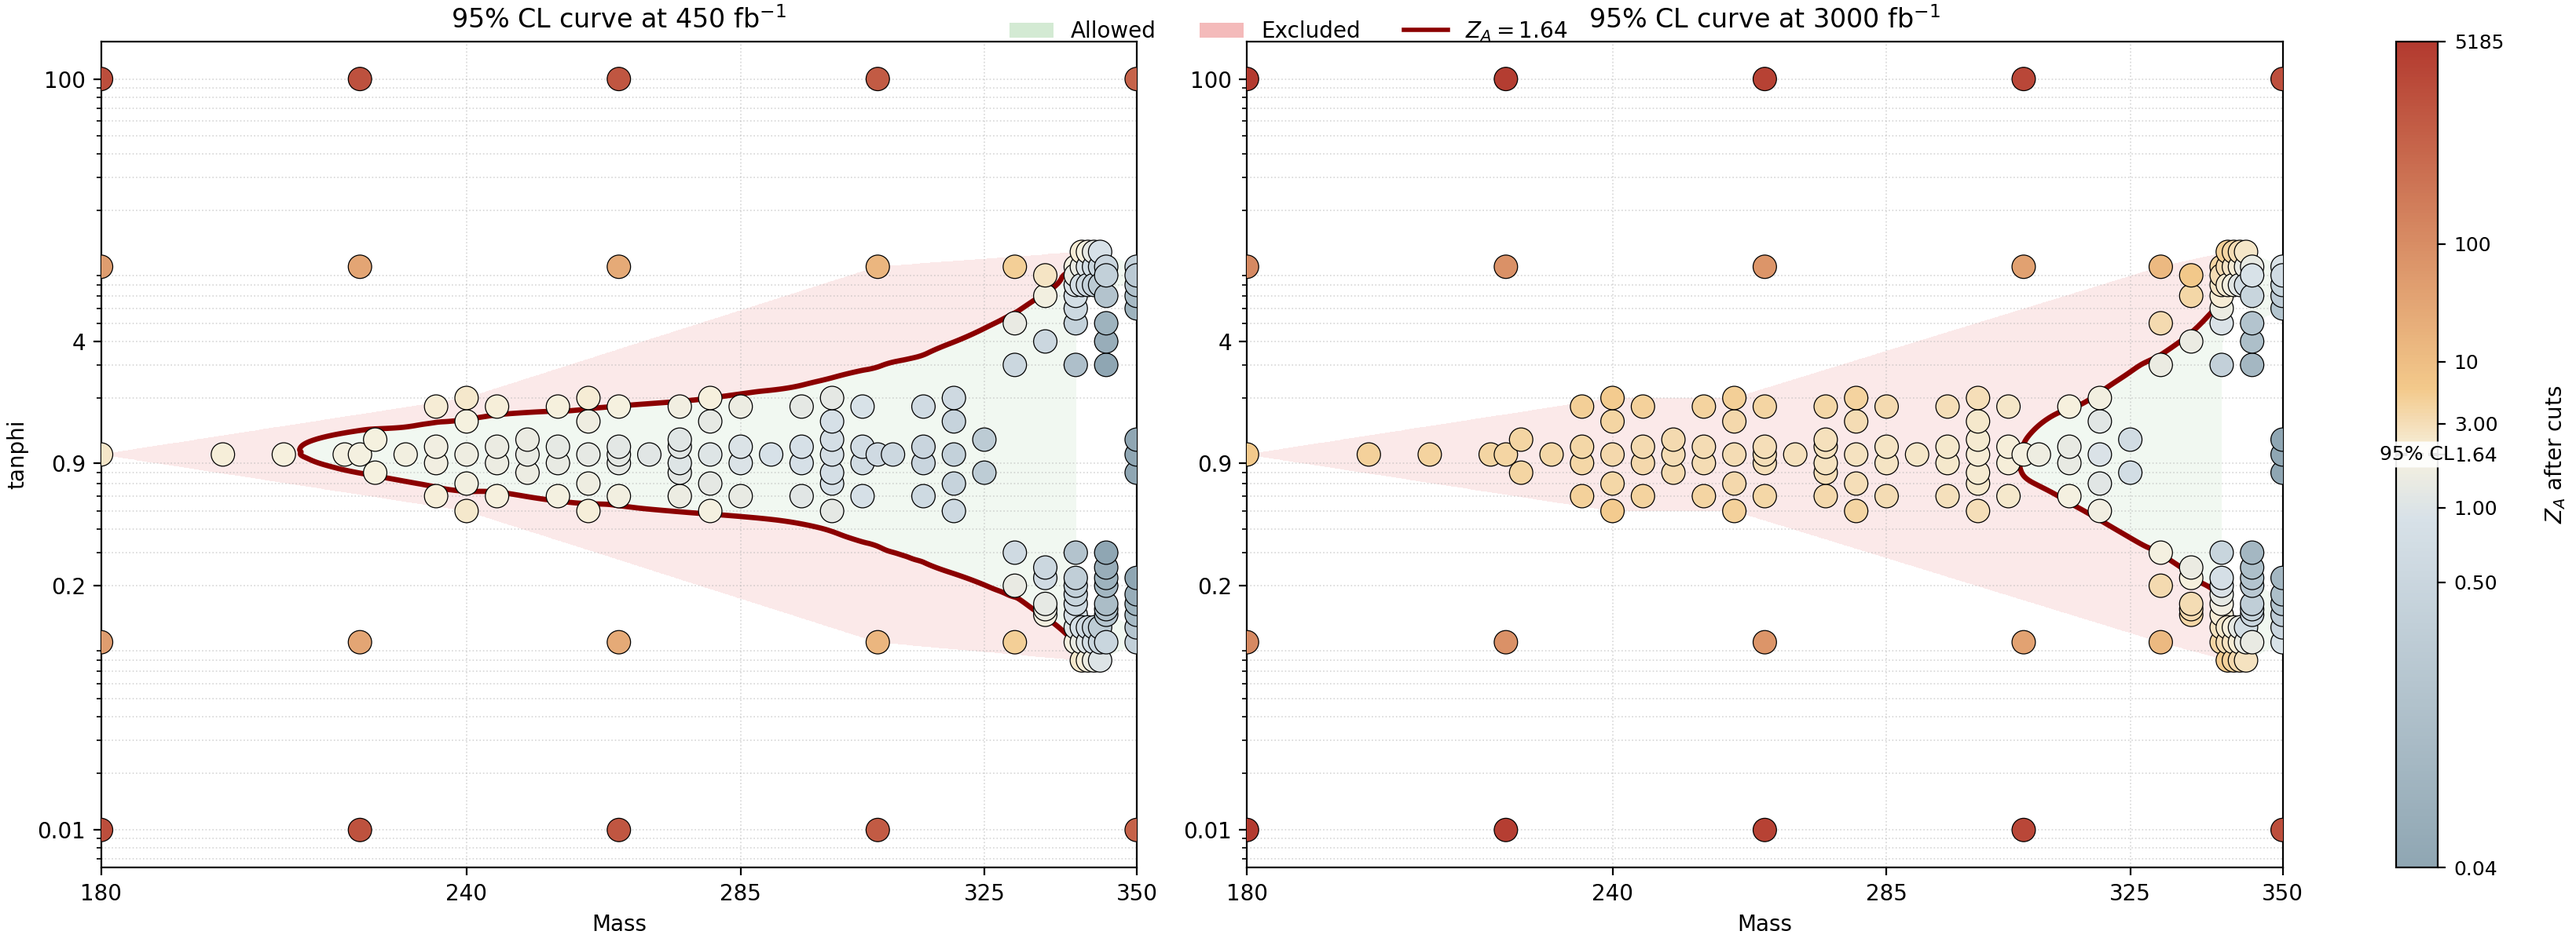
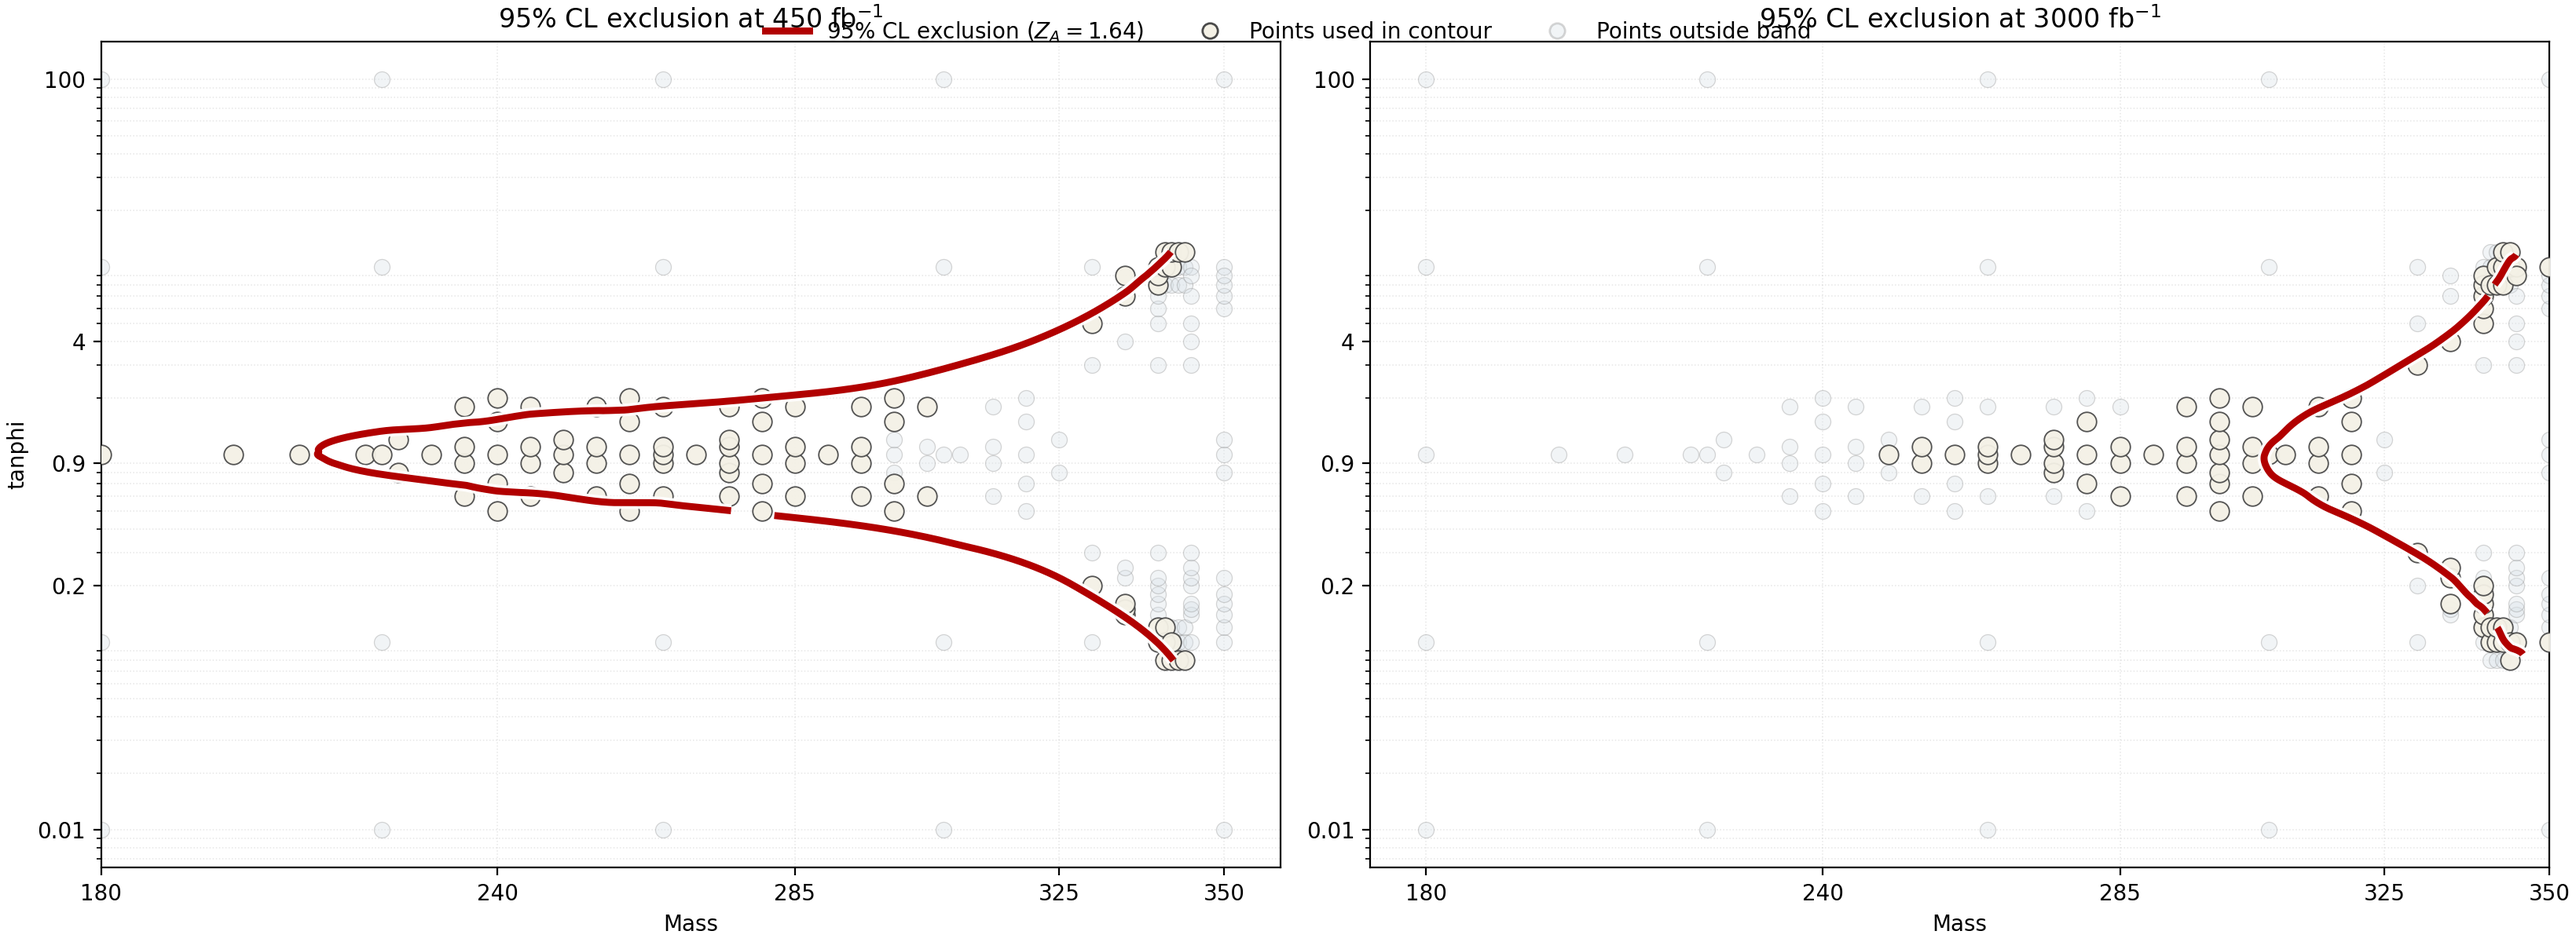
modify exclusion region plotter and added new batch of points to explore

diff --git a/exclusion/significance-plotter-region.py b/exclusion/significance-plotter-region.py
@@ -14,11 +14,9 @@ import matplotlib
 
 matplotlib.use("Agg")
 import matplotlib.pyplot as plt
+import matplotlib.patheffects as pe
 import matplotlib.tri as mtri
-from matplotlib.colors import LinearSegmentedColormap
-from matplotlib.colors import TwoSlopeNorm
 from matplotlib.lines import Line2D
-from matplotlib.patches import Patch
 
 
 BASE_DIR = Path(__file__).resolve().parent
@@ -26,19 +24,9 @@ DEFAULT_INPUT = BASE_DIR / "significance-summary.txt"
 DEFAULT_OUTPUT = BASE_DIR / "exclusion-region.png"
 DEFAULT_LUMINOSITIES_FB = (450.0, 3000.0)
 DEFAULT_EXCLUSION_THRESHOLD = 1.64
-DEFAULT_CURVE_BAND_FACTOR = 3.0
-DEFAULT_MAX_TRIANGLE_SPAN = 8.0
-DEFAULT_INTERPOLATION_POINTS = 320
-SCATTER_CMAP = LinearSegmentedColormap.from_list(
-    "significance_threshold_map",
-    [
-        (0.0, "#8fa6b3"),
-        (0.42, "#d7e1e8"),
-        (0.5, "#f6f1df"),
-        (0.58, "#f3c98b"),
-        (1.0, "#b33a2f"),
-    ],
-)
+DEFAULT_CURVE_BAND_FACTOR = 2.0
+DEFAULT_MAX_TRIANGLE_SPAN = 20.0
+DEFAULT_INTERPOLATION_POINTS = 1000
 
 
 def select_axis_ticks(values: np.ndarray, max_ticks: int = 5) -> list[float]:
@@ -94,7 +82,7 @@ def parse_args() -> argparse.Namespace:
         default=DEFAULT_CURVE_BAND_FACTOR,
         help=(
             "Use only points with significance between threshold/factor and "
-            "threshold*factor when building the 95%% CL curve. Default: 3.0"
+            "threshold*factor when building the 95%% CL curve. Default: 2.0"
         ),
     )
     parser.add_argument(
@@ -104,7 +92,7 @@ def parse_args() -> argparse.Namespace:
         help=(
             "Mask triangulation cells whose longest edge is too large after "
             "normalizing by the typical mass and log10(tanphi) spacing. "
-            "Default: 8.0"
+            "Default: 20.0"
         ),
     )
     parser.add_argument(
@@ -113,7 +101,7 @@ def parse_args() -> argparse.Namespace:
         default=DEFAULT_INTERPOLATION_POINTS,
         help=(
             "Number of points per axis in the interpolated grid used to draw the "
-            "95%% CL contour. Default: 320"
+            "95%% CL contour. Default: 1000"
         ),
     )
     return parser.parse_args()
@@ -215,37 +203,6 @@ def build_filtered_triangulation(
     return triangulation
 
 
-def build_scatter_norm(
-    rows_by_luminosity: list[tuple[float, list[tuple[float, float, float]]]],
-    threshold: float,
-) -> tuple[float, float, TwoSlopeNorm]:
-    all_significances = np.concatenate(
-        [
-            np.array([row[2] for row in rows], dtype=float)
-            for _, rows in rows_by_luminosity
-        ]
-    )
-    positive_significances = all_significances[all_significances > 0.0]
-    if positive_significances.size == 0:
-        raise ValueError("All significances are zero; logarithmic color scale is undefined.")
-
-    shared_vmin = float(np.min(positive_significances))
-    shared_vmax = float(np.max(all_significances))
-    if not (shared_vmin < threshold < shared_vmax):
-        raise ValueError(
-            "The exclusion threshold must lie inside the positive significance range "
-            "to center the scatter color scale."
-        )
-
-    log_significances = np.log10(positive_significances)
-    norm = TwoSlopeNorm(
-        vmin=float(np.min(log_significances)),
-        vcenter=math.log10(threshold),
-        vmax=math.log10(shared_vmax),
-    )
-    return shared_vmin, shared_vmax, norm
-
-
 def select_curve_band_points(
     masses: np.ndarray,
     tanphis: np.ndarray,
@@ -253,12 +210,7 @@ def select_curve_band_points(
     threshold: float,
     curve_band_factor: float,
 ) -> tuple[np.ndarray, np.ndarray, np.ndarray]:
-    if curve_band_factor <= 1.0:
-        raise ValueError("--curve-band-factor must be greater than 1.")
-
-    lower_bound = threshold / curve_band_factor
-    upper_bound = threshold * curve_band_factor
-    band_mask = (significances >= lower_bound) & (significances <= upper_bound)
+    band_mask = build_curve_band_mask(significances, threshold, curve_band_factor)
     if np.count_nonzero(band_mask) < 4:
         raise ValueError(
             "Not enough points remain in the curve band. "
@@ -266,6 +218,19 @@ def select_curve_band_points(
         )
 
     return masses[band_mask], tanphis[band_mask], significances[band_mask]
+
+
+def build_curve_band_mask(
+    significances: np.ndarray,
+    threshold: float,
+    curve_band_factor: float,
+) -> np.ndarray:
+    if curve_band_factor <= 1.0:
+        raise ValueError("--curve-band-factor must be greater than 1.")
+
+    lower_bound = threshold / curve_band_factor
+    upper_bound = threshold * curve_band_factor
+    return (significances >= lower_bound) & (significances <= upper_bound)
 
 
 def interpolate_log_significance(
@@ -303,10 +268,6 @@ def make_exclusion_plot(
     max_triangle_span: float,
     interpolation_points: int,
 ) -> Path:
-    shared_vmin, shared_vmax, scatter_norm = build_scatter_norm(
-        rows_by_luminosity,
-        threshold,
-    )
     fig, axes = plt.subplots(
         1,
         len(rows_by_luminosity),
@@ -317,21 +278,44 @@ def make_exclusion_plot(
     axes_row = axes[0]
 
     legend_handles = [
-        Patch(facecolor="#cfe8cf", edgecolor="none", alpha=0.9, label="Allowed"),
-        Patch(facecolor="#f3b3b3", edgecolor="none", alpha=0.9, label="Excluded"),
-        Line2D([0], [0], color="#8b0000", linewidth=2.0, label=rf"$Z_A = {threshold:g}$"),
+        Line2D(
+            [0],
+            [0],
+            color="#b10000",
+            linewidth=3.2,
+            label=rf"95% CL exclusion ($Z_A = {threshold:g}$)",
+        ),
+        Line2D(
+            [0],
+            [0],
+            marker="o",
+            linestyle="None",
+            markerfacecolor="#f4f1e6",
+            markeredgecolor="#4a4a4a",
+            markersize=7,
+            label="Points used in contour",
+        ),
+        Line2D(
+            [0],
+            [0],
+            marker="o",
+            linestyle="None",
+            markerfacecolor="#d9e2e8",
+            markeredgecolor="#8a8a8a",
+            alpha=0.35,
+            markersize=7,
+            label="Points outside band",
+        ),
     ]
 
     for index, (luminosity_fb, rows) in enumerate(rows_by_luminosity):
         ax = axes_row[index]
         masses, tanphis, significances = rows_to_arrays(rows)
-        clipped_significances = significances.copy()
-        clipped_significances[clipped_significances <= 0.0] = shared_vmin
-        log_significances = np.log10(clipped_significances)
+        band_mask = build_curve_band_mask(significances, threshold, curve_band_factor)
         curve_masses, curve_tanphis, curve_significances = select_curve_band_points(
             masses,
             tanphis,
-            clipped_significances,
+            significances,
             threshold,
             curve_band_factor,
         )
@@ -343,38 +327,40 @@ def make_exclusion_plot(
             interpolation_points,
         )
         threshold_level = math.log10(threshold)
-        valid_log_significance = interpolated_log_significance.compressed()
-        if valid_log_significance.size == 0:
-            raise ValueError("Interpolation failed; no valid region remained after masking.")
-        lower_bound = float(np.min(valid_log_significance)) - 1e-9
-        upper_bound = float(np.max(valid_log_significance)) + 1e-9
-
-        ax.contourf(
-            mass_grid,
-            tanphi_grid,
-            interpolated_log_significance,
-            levels=[lower_bound, threshold_level, upper_bound],
-            colors=["#cfe8cf", "#f3b3b3"],
-            alpha=0.28,
-        )
-        ax.contour(
+        contour = ax.contour(
             mass_grid,
             tanphi_grid,
             interpolated_log_significance,
             levels=[threshold_level],
-            colors=["#8b0000"],
-            linewidths=2.4,
+            colors=["#b10000"],
+            linewidths=3.2,
+            zorder=5,
+        )
+        contour.set_path_effects(
+            [
+                pe.Stroke(linewidth=5.8, foreground="white", alpha=0.96),
+                pe.Normal(),
+            ]
         )
 
-        scatter = ax.scatter(
-            masses,
-            tanphis,
-            c=log_significances,
-            cmap=SCATTER_CMAP,
-            norm=scatter_norm,
-            s=115,
-            edgecolors="black",
+        ax.scatter(
+            masses[~band_mask],
+            tanphis[~band_mask],
+            c="#d9e2e8",
+            s=52,
+            edgecolors="#8a8a8a",
             linewidths=0.45,
+            alpha=0.35,
+            zorder=2,
+        )
+        ax.scatter(
+            masses[band_mask],
+            tanphis[band_mask],
+            c="#f4f1e6",
+            s=78,
+            edgecolors="#4a4a4a",
+            linewidths=0.65,
+            alpha=0.95,
             zorder=3,
         )
         ax.set_xlabel("Mass")
@@ -387,51 +373,9 @@ def make_exclusion_plot(
         ax.set_yticks(y_ticks)
         ax.set_yticklabels([f"{value:g}" for value in y_ticks])
         ax.set_title(
-            rf"95% CL curve at {luminosity_fb:g} fb$^{{-1}}$"
+            rf"95% CL exclusion at {luminosity_fb:g} fb$^{{-1}}$"
         )
-        ax.grid(True, which="both", linestyle=":", linewidth=0.6, alpha=0.5)
-
-    colorbar = fig.colorbar(scatter, ax=list(axes_row), pad=0.035, fraction=0.06)
-    colorbar.set_label(r"$Z_A$ after cuts")
-    colorbar.ax.tick_params(labelsize=9, pad=4)
-    colorbar.ax.yaxis.labelpad = 18
-
-    tick_candidates = np.array(
-        [shared_vmin, 0.5, 1.0, threshold, 3.0, 10.0, 100.0, shared_vmax],
-        dtype=float,
-    )
-    tick_values = sorted(
-        {
-            value
-            for value in tick_candidates
-            if shared_vmin <= value <= shared_vmax
-        }
-    )
-    colorbar.set_ticks(np.log10(tick_values))
-    colorbar.set_ticklabels(
-        [
-            f"{value:.2f}" if value < 10.0 else f"{value:.0f}"
-            for value in tick_values
-        ]
-    )
-
-    threshold_position = math.log10(threshold)
-    colorbar.ax.axhline(threshold_position, color="black", linewidth=1.4, linestyle="--")
-    colorbar.ax.text(
-        0.5,
-        threshold_position,
-        "95% CL",
-        transform=colorbar.ax.get_yaxis_transform(),
-        va="center",
-        ha="center",
-        fontsize=9,
-        bbox={
-            "boxstyle": "round,pad=0.18",
-            "facecolor": "white",
-            "edgecolor": "none",
-            "alpha": 0.9,
-        },
-    )
+        ax.grid(True, which="both", linestyle=":", linewidth=0.55, alpha=0.3)
 
     fig.legend(
         legend_handles,
